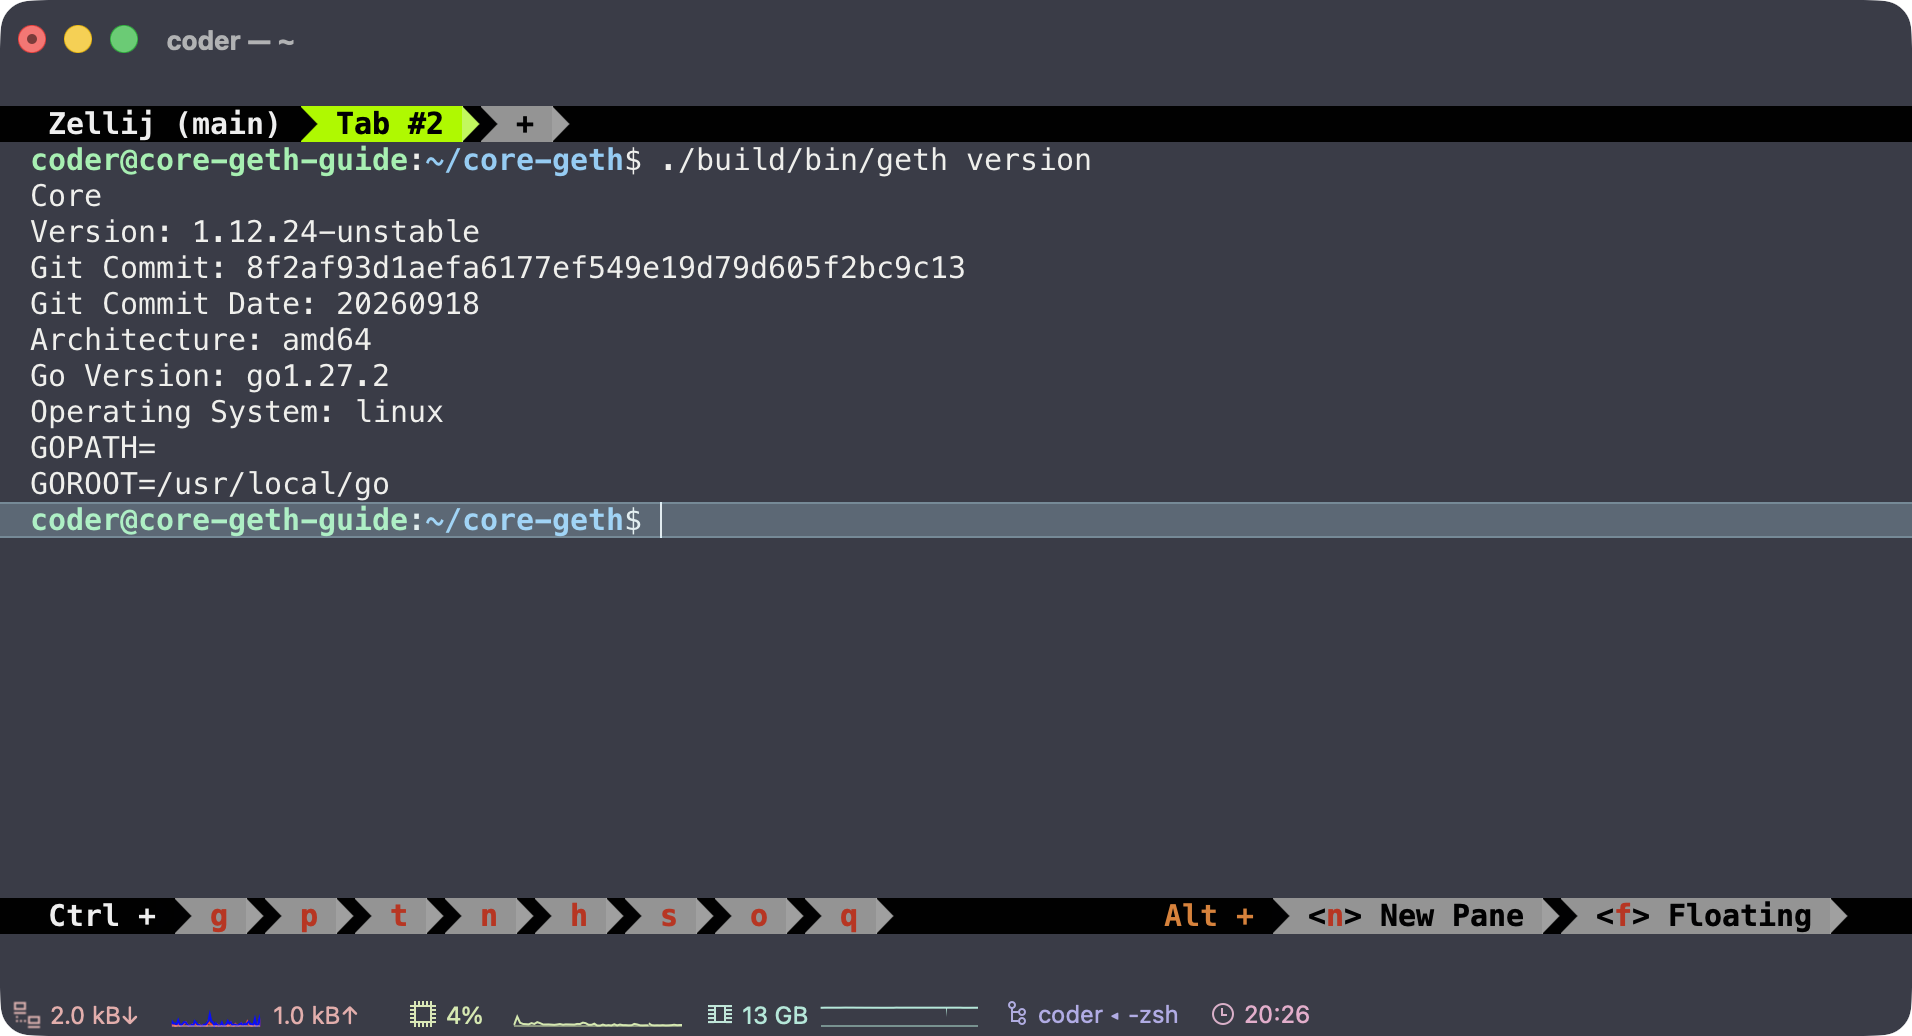
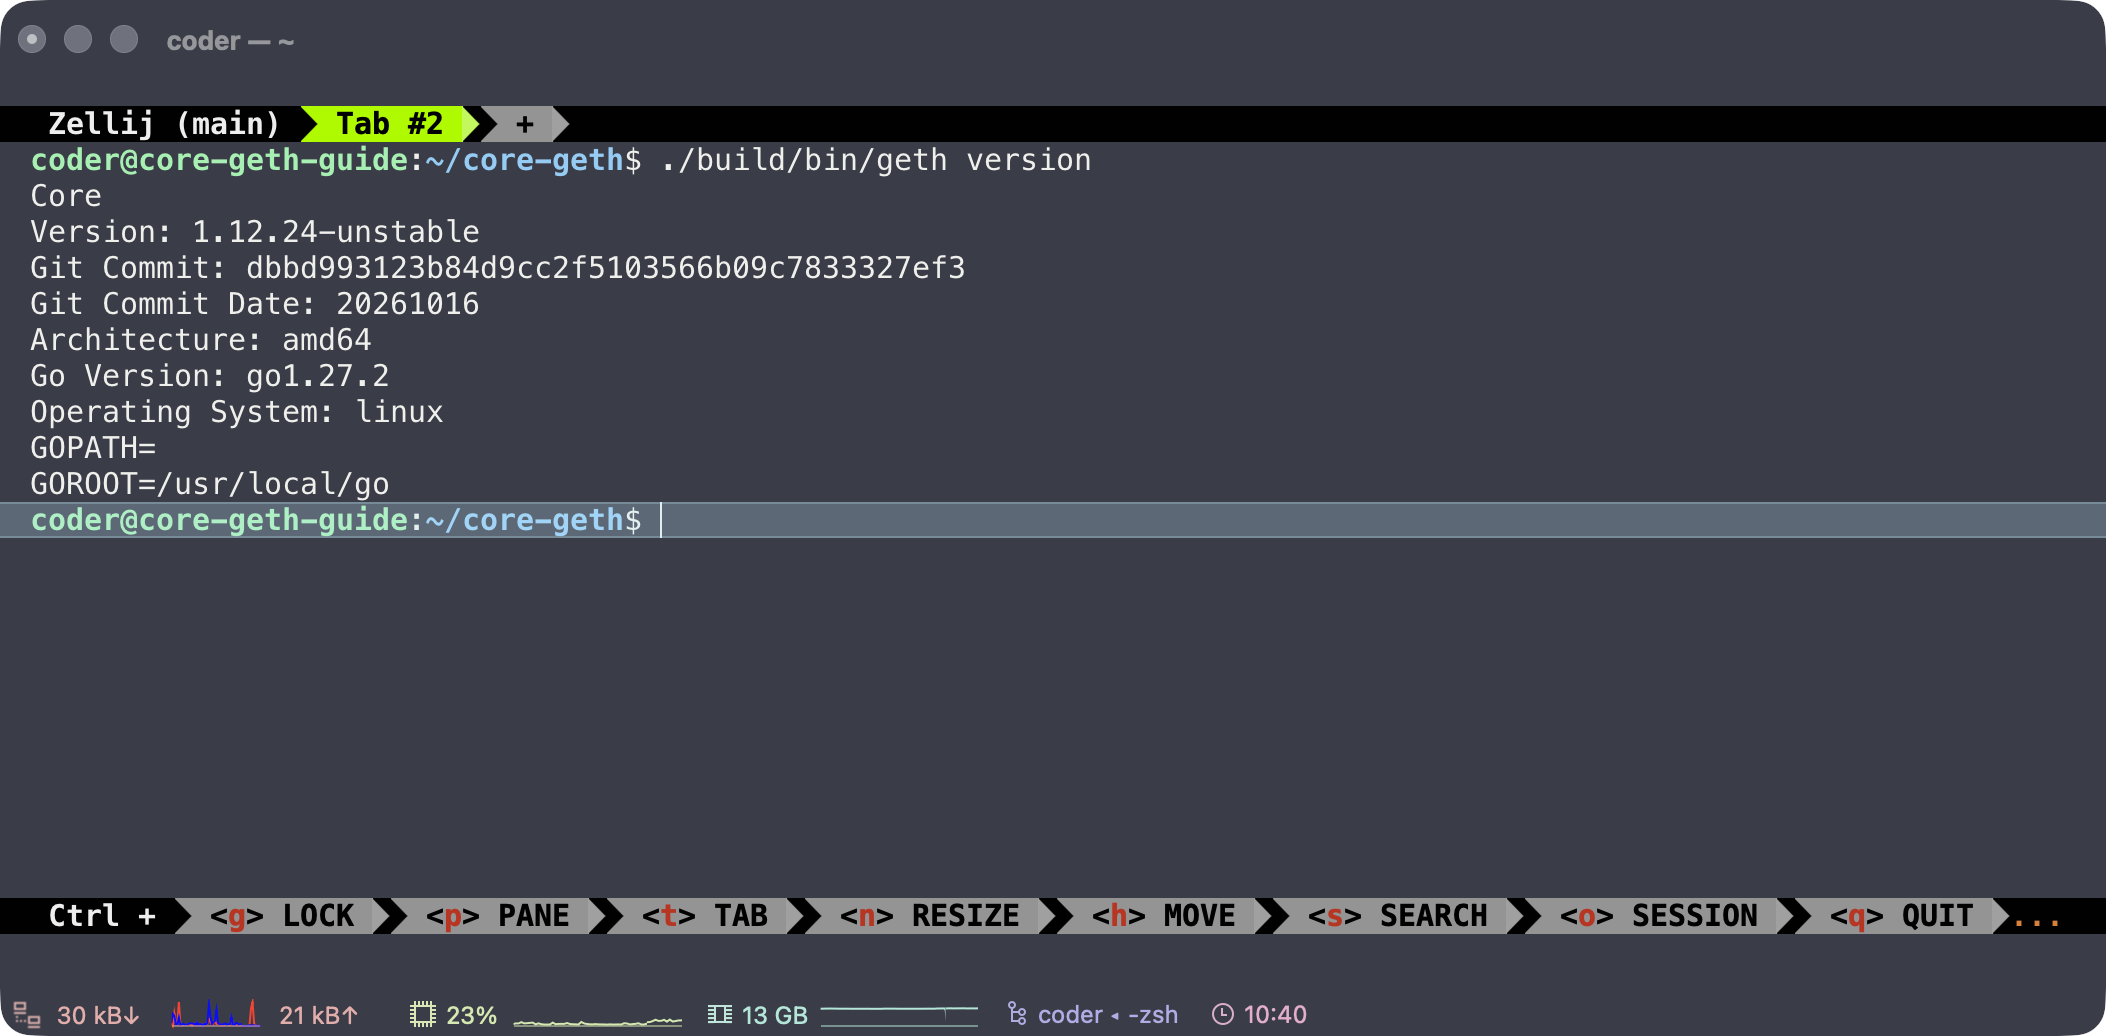
Update core-geth part 1 for PR #702 merging into master
- path B now builds the development version on master instead of
  fetching PR #702, which was merged on 2026-10-16
- update the git log, geth version and console instance output to the
  merge commit dbbd993
- re-record oneline-command.gif, attaching-core-geth.gif and
  geth-version.png from the new build (GIFs at 800px, 8-10 fps,
  64-colour palette, matching the earlier optimisation)
- add --datadir notes to troubleshooting and removedb

Claude-Session: https://claude.ai/code/session_014UfRf1jH4jaqPDa7KXDunX

diff --git a/content/blog/2026-10-15-run-your-own-etc-node-part-1-build-core-geth-from-source/index.md b/content/blog/2026-10-15-run-your-own-etc-node-part-1-build-core-geth-from-source/index.md
@@ -23,9 +23,9 @@ This is part 1 of a three-part series. In this part, you'll build core-geth from
 | Path | Version | Choose it if | Follow |
 | --- | --- | --- | --- |
 | **A. Build the stable release** (recommended) | [v1.12.23 "Argos"](https://github.com/etclabscore/core-geth/releases/tag/v1.12.23), the latest stable release as of writing. Check the [releases page](https://github.com/etclabscore/core-geth/releases) for anything newer | You want a stable node and to see how it's made | Steps 1–8, Go 1.22.12 in step 2, option A in step 3 |
-| **B. Build the pre-release** | v1.12.24-unstable from [pull request #702](https://github.com/etclabscore/core-geth/pull/702), which updates core-geth to a newer Go toolchain and is still being reviewed as of writing | You want to help test upcoming changes before they're released | Steps 1–8, Go 1.27.2 in step 2, option B in step 3 |
+| **B. Build the development version** | v1.12.24-unstable, the latest code on core-geth's [`master` branch](https://github.com/etclabscore/core-geth/tree/master), including the newer Go toolchain from [pull request #702](https://github.com/etclabscore/core-geth/pull/702) | You want to help test upcoming changes before they're released | Steps 1–8, Go 1.27.2 in step 2, option B in step 3 |
 
-For this guide, we'll use the pre-release code from pull request #702 as a preview of what's coming, but you can go with option A (v1.12.23 "Argos") and follow the same steps. Paths A and B are identical except for two choices: the Go version in step 2 and the core-geth version in step 3. If you're not sure what to choose, choose the stable v1.12.23 Argos release, unless a newer stable version has been released.
+For this guide, we'll use the development version on `master` as a preview of what's coming, but you can go with option A (v1.12.23 "Argos") and follow the same steps. Paths A and B are identical except for two choices: the Go version in step 2 and the core-geth version in step 3. If you're not sure what to choose, choose the stable v1.12.23 Argos release, unless a newer stable version has been released.
 
 **Not covered here:** waiting for a full sync, mining, running the node as a background service, or opening it up to the internet. See Next steps. This is just a basic guide to setting up a core-geth node.
 
@@ -107,7 +107,7 @@ core-geth is written in the Go programming language, so you need Go installed to
 | Path | Go version |
 | --- | --- |
 | **A.** v1.12.23 "Argos" | Go 1.22.12 |
-| **B.** pull request #702 | Go 1.27.2 |
+| **B.** development version (`master`) | Go 1.27.2 |
 | Versions later than v1.12.23 | Check the [release notes](https://github.com/etclabscore/core-geth/releases) |
 
 The commands below show path B (Go 1.27.2). **On path A, replace `1.27.2` with `1.22.12` in every command in this step.**
@@ -117,7 +117,7 @@ The commands below show path B (Go 1.27.2). **On path A, replace `1.27.2` with `
 
 core-geth v1.12.23 was built for Go 1.22, and it doesn't build with newer versions of Go: two of the libraries it uses stopped working with changes made in Go 1.23 and Go 1.24. Go 1.22.12 is the last Go 1.22 release, and it builds v1.12.23 cleanly. Go 1.22 no longer gets security fixes from the Go team, but you only use it to build core-geth, not to run anything else.
 
-The pre-release code in path B (pull request #702) fixes this by updating core-geth's Go setup to match go-ethereum's v1.17.5 release. It needs Go 1.24 or newer, and this guide was tested with Go 1.27.2, the latest stable version of Go as of writing.
+The development code in path B fixes this. [Pull request #702](https://github.com/etclabscore/core-geth/pull/702), now merged into `master`, updated core-geth's Go setup to match go-ethereum's v1.17.5 release. It needs Go 1.24 or newer, and this guide was tested with Go 1.27.2, the latest stable version of Go as of writing.
 
 In the pull request's benchmarks, moving from Go 1.21 to Go 1.25 made core-geth's EVM (the part that runs transactions and smart contracts) about 4% faster, with about 11% less memory allocated and about 8% fewer allocations.
 
@@ -253,26 +253,24 @@ followed by a few lines of advice, ending with a line that starts `HEAD is now a
 
 This release is signed by core-geth's maintainer, Diego López León. On its [GitHub release page](https://github.com/etclabscore/core-geth/releases/tag/v1.12.23) it's marked **Verified**.
 
-### Option B: v1.12.24-unstable (pull request #702)
+### Option B: v1.12.24-unstable (development version)
 
-As of writing, v1.12.24 isn't a finished release yet. [Pull request #702](https://github.com/etclabscore/core-geth/pull/702) is a proposed change, still waiting for review, that brings core-geth's Go toolchain in line with go-ethereum v1.17.5. We'll use it here as a preview of what's coming. These commands download it and switch to it:
+As of writing, v1.12.24 isn't released yet. Its code is on the `master` branch, where core-geth's maintainers add changes once they've been reviewed. That includes [pull request #702](https://github.com/etclabscore/core-geth/pull/702), which brings core-geth's Go toolchain in line with go-ethereum v1.17.5. We'll use it here as a preview of what's coming. `git clone` already put you on `master`, so this command just makes sure:
 
 ```bash
-git fetch origin pull/702/head:pr-702
-git checkout pr-702
+git checkout master
 ```
 
 **What you'll see:**
 
 ```text
-From https://github.com/etclabscore/core-geth
- * [new ref]   refs/pull/702/head -> pr-702
-Switched to branch 'pr-702'
+Already on 'master'
+Your branch is up to date with 'origin/master'.
 ```
 
-**What it means:** you're now on the pre-release code. Once v1.12.24 is officially released, use `git checkout v1.12.24` instead of these two lines.
+**What it means:** you're on the development code. Once v1.12.24 is officially released, use `git checkout v1.12.24` instead.
 
-Pull requests can change while they're being reviewed, so if you run this later, the code you get may be newer than the version shown in this guide.
+New changes are added to `master` regularly, so if you run this later, the code you get may be newer than the version shown in this guide.
 
 ### Check which version you're on (both paths)
 
@@ -283,7 +281,7 @@ git log -1 --oneline
 **What you'll see:** one line: a short code, then a description of the latest change. On path B, as of writing:
 
 ```text
-8f2af93d1 (HEAD -> pr-702) cmd/geth: quote the format strings in the integration logging test
+dbbd99312 (HEAD -> master, origin/master, origin/HEAD) Merge pull request #702 from diega/backport/upstream-toolchain
 ```
 
 On path A, the code starts with `96b2afc`.
@@ -337,7 +335,7 @@ GOROOT=/usr/local/go
 
 **What it means:** check three lines.
 
-- **Version:** `1.12.23-stable` on path A. On path B it's `1.12.24-unstable`, where "unstable" just means pre-release.
+- **Version:** `1.12.23-stable` on path A. On path B it's `1.12.24-unstable`, where "unstable" means it's development code that hasn't been released yet.
 - **Git Commit:** starts with the same short code `git log -1 --oneline` showed in step 3.
 - **Go Version:** `go1.22.12` on path A, `go1.27.2` on path B.
 
@@ -457,7 +455,7 @@ geth --classic attach
 ```text
 Welcome to the Geth JavaScript console!
 
-instance: CoreGeth/v1.12.24-unstable-8f2af93d/linux-amd64/go1.27.2
+instance: CoreGeth/v1.12.24-unstable-dbbd9931-20261016/linux-amd64/go1.27.2
 ...
 To exit, press ctrl-d or type exit
 >
@@ -567,6 +565,7 @@ Find the message you're seeing, then follow the fix. Still stuck? Ask in [r/Ethe
 - you started it with `--classic` and you're attaching with `geth --classic attach`
 - you waited a minute after starting: the connection file only appears once the node has finished starting up
 - you didn't start the node with `sudo`. That puts its files under `/root/`. Stop it and start it again without `sudo`
+- if you started the node with `--datadir`, you're attaching with the same `--datadir`
 
 Still stuck? Scroll to the top of terminal A and find the line containing `IPC endpoint opened`. Attach to the path it shows: `geth attach /that/path/geth.ipc`.
 
@@ -584,4 +583,4 @@ Still stuck? Scroll to the top of terminal A and find the line containing `IPC e
 - **Verify every block yourself:** start a fresh node with `--syncmode full`. Expect it to take much longer.
 - **Run it in the background** so it keeps going after you close the terminal, for example as a systemd service.
 - **Update to v1.12.24 when it's released:** check out `v1.12.24` (step 3) and rebuild (step 4). Check its release notes for the Go version it needs.
-- **Free up the space:** to delete the downloaded chain, stop the node and run `geth --classic removedb`. It asks before deleting anything.
+- **Free up the space:** to delete the downloaded chain, stop the node and run `geth --classic removedb`. It asks before deleting anything. If you used `--datadir`, add the same `--datadir` to this command.
